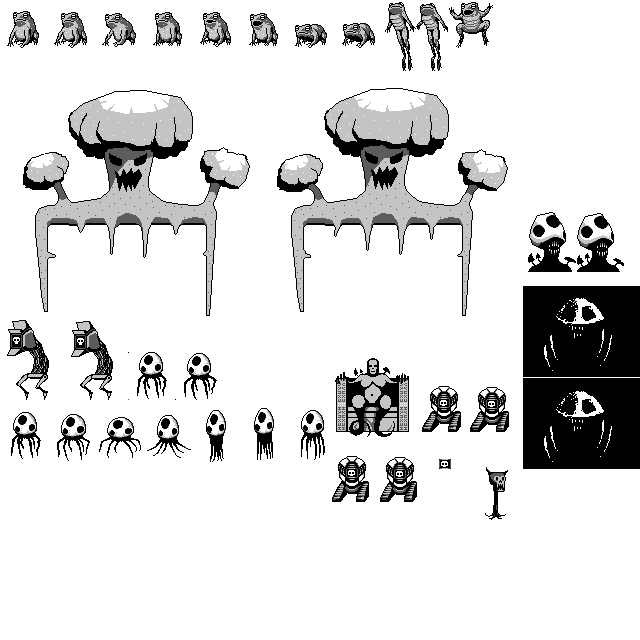
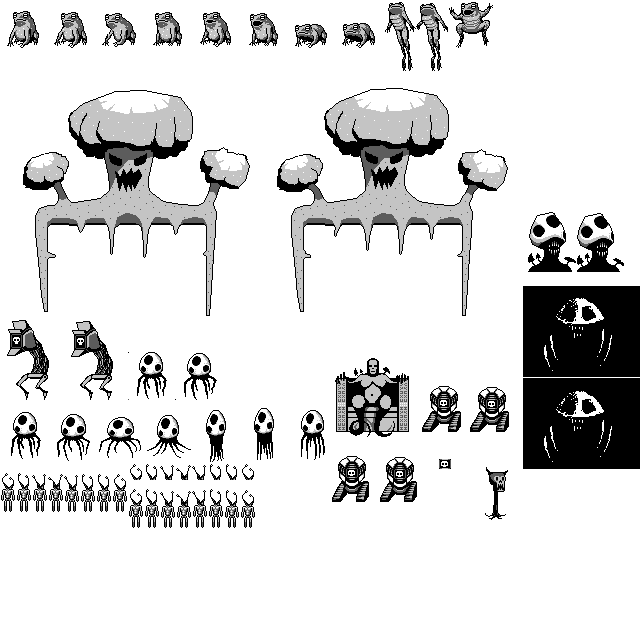
added new art for a ring and 'infected' husks

Changed region(s): [[0.0, 0.7188, 0.4062, 0.8438]]

diff --git a/src/game/enemies.py b/src/game/enemies.py
@@ -695,6 +695,40 @@ class HuskTemplate(EnemyTemplate):
         player_base_stats = stats.default_player_stats()
 
         return stats.BasicStatLookup({
+            StatTypes.VIT: player_base_stats.stat_value(StatTypes.VIT),
+            StatTypes.SPEED: player_base_stats.stat_value(StatTypes.SPEED),
+            StatTypes.ATT: player_base_stats.stat_value(StatTypes.ATT),
+            StatTypes.UNARMED_ATT: player_base_stats.stat_value(StatTypes.UNARMED_ATT),
+            StatTypes.DEF: player_base_stats.stat_value(StatTypes.DEF),
+            StatTypes.INTELLIGENCE: 3,
+            StatTypes.WEALTH: 0,
+        })
+
+
+class InfectedHuskTemplate(EnemyTemplate):
+
+    def __init__(self):
+        EnemyTemplate.__init__(self, "Infected Husk")
+
+    def get_sprites(self):
+        return spriteref.Bosses.infected_husk_idle
+
+    def get_map_identifier(self):
+        return ("h", colors.RED)
+
+    def get_idle_anim_rate(self):
+        return 1
+
+    def get_moving_anim_rate(self):
+        return 1
+
+    def get_level_range(self):
+        return [15]
+
+    def get_base_stats(self):
+        player_base_stats = stats.default_player_stats()
+
+        return stats.BasicStatLookup({
             StatTypes.VIT: player_base_stats.stat_value(StatTypes.VIT) * 2,
             StatTypes.SPEED: player_base_stats.stat_value(StatTypes.SPEED),
             StatTypes.ATT: player_base_stats.stat_value(StatTypes.ATT),
@@ -776,7 +810,7 @@ class CaveHorrorTemplate(EnemyTemplate):
             StatTypes.DEF: 6,
             StatTypes.INTELLIGENCE: 3,
             StatTypes.WEALTH: 6,
-            StatTypes.LIGHT_LEVEL: 1  # so it stays visible
+            StatTypes.LIGHT_LEVEL: 4  # so it stays visible
         })
 
     def get_controller(self):
@@ -814,6 +848,7 @@ TEMPLATE_SKELEKID = SkeleSpawn()
 TEMPLATE_FROG = FrogBossTemplate()
 TEMPLATE_ROBO = RoboTemplate()
 TEMPLATE_CAVE_HORROR = CaveHorrorTemplate()
+TEMPLATE_INFECTED_HUSK = InfectedHuskTemplate()
 
 RAND_SPAWN_TEMPLATES = [TEMPLATE_MUNCHER_SMALL,
                         TEMPLATE_MUNCHER,

diff --git a/src/worldgen/zones.py b/src/worldgen/zones.py
@@ -1026,6 +1026,9 @@ class CaveHorrorZone(Zone):
                 self._level = level
                 self._husk_limit = husk_limit
 
+            def gen_spawned_minion(self):
+                return enemies.EnemyFactory.gen_enemy(enemies.TEMPLATE_INFECTED_HUSK, self._level)
+
             def get_next_action(self, actor, world):
 
                 summon_color = colors.RED
@@ -1033,7 +1036,7 @@ class CaveHorrorZone(Zone):
                 if len(self._initial_spawns) > 0:
                     inital_spawns_copy = [x for x in self._initial_spawns]
                     random.shuffle(inital_spawns_copy)
-                    new_husk = enemies.EnemyFactory.gen_enemy(enemies.TEMPLATE_HUSK, self._level)
+                    new_husk = self.gen_spawned_minion()
                     for pos in inital_spawns_copy:
                         spawn_action = gameengine.SpawnActorAction(actor, pos, new_husk, art_color=summon_color)
                         if spawn_action.is_possible(world):
@@ -1049,9 +1052,9 @@ class CaveHorrorZone(Zone):
                 if len(enemies_nearby) < self._husk_limit:
                     rand_pos_x = random.randint(self._arena_rect[0], self._arena_rect[0] + self._arena_rect[2])
                     rand_pos_y = random.randint(self._arena_rect[1], self._arena_rect[1] + self._arena_rect[3])
-                    new_husk = enemies.EnemyFactory.gen_enemy(enemies.TEMPLATE_HUSK, self._level)
                     spawn_action = gameengine.SpawnActorAction(actor, (rand_pos_x, rand_pos_y),
-                                                               new_husk, art_color=summon_color)
+                                                               self.gen_spawned_minion(),
+                                                               art_color=summon_color)
                     if spawn_action.is_possible(world):
                         return spawn_action
 

diff --git a/src/game/spriteref.py b/src/game/spriteref.py
@@ -72,6 +72,7 @@ class Items:
     axe_big = None
     bow_big = None
     potion_big = None
+    ring_big = None
 
     spear_small = None
     sword_small = None
@@ -232,6 +233,8 @@ class Bosses:
     frog_idle_down = []
     frog_airborn_rising = []
     frog_airborn_falling = []
+
+    infected_husk_idle = []
 
     robo_idle = []
 
@@ -662,6 +665,7 @@ def build_items_sheet(start_pos, raw_item_img, sheet):
     Items.axe_big = make(80, 0, 32, 48, shift=start_pos)
     Items.bow_big = make(112, 0, 16, 48, shift=start_pos)
     Items.potion_big = make(144, 48, 16, 16, shift=start_pos)
+    Items.ring_big = make(160, 48, 16, 16, shift=start_pos)
 
     Items.spear_small = make(128, 0, 5, 16, shift=start_pos)
     Items.sword_small = make(133, 3, 5, 13, shift=start_pos)
@@ -790,6 +794,8 @@ def build_boss_sheet(start_pos, raw_boss_img, sheet):
     Bosses.frog_idle_down = [make(288 + 48*i, 0, 48, 48, shift=start_pos) for i in range(0, 2)]
     Bosses.frog_airborn_rising = [make(384 + 32*i, 0, 32, 80, shift=start_pos) for i in range(0, 2)]
     Bosses.frog_airborn_falling = [make(448, 0, 48, 48, shift=start_pos)]
+
+    Bosses.infected_husk_idle = [make(0 + i * 16, 464, 16, 48, shift=start_pos) for i in range(0, 8)]
 
 
 def build_font_sheet(start_pos, raw_font_img, sheet):

diff --git a/README.md b/README.md
@@ -3,6 +3,8 @@ babby's first roguelike
 
 here are the five most recent gifs committed:
 
+![190_infected_husks.gif](gifs/190_infected_husks.gif?raw=true "190_infected_husks")
+
 ![189_summoning_clones.gif](gifs/189_summoning_clones.gif?raw=true "189_summoning_clones")
 
 ![188_skelekid_touchups.gif](gifs/188_skelekid_touchups.gif?raw=true "188_skelekid_touchups")
@@ -10,6 +12,4 @@ here are the five most recent gifs committed:
 ![187_flinching.gif](gifs/187_flinching.gif?raw=true "187_flinching")
 
 ![186_final_mouse_behavior_with_items.gif](gifs/186_final_mouse_behavior_with_items.gif?raw=true "186_final_mouse_behavior_with_items")
-
-![185_jellyfish.gif](gifs/185_jellyfish.gif?raw=true "185_jellyfish")
 
